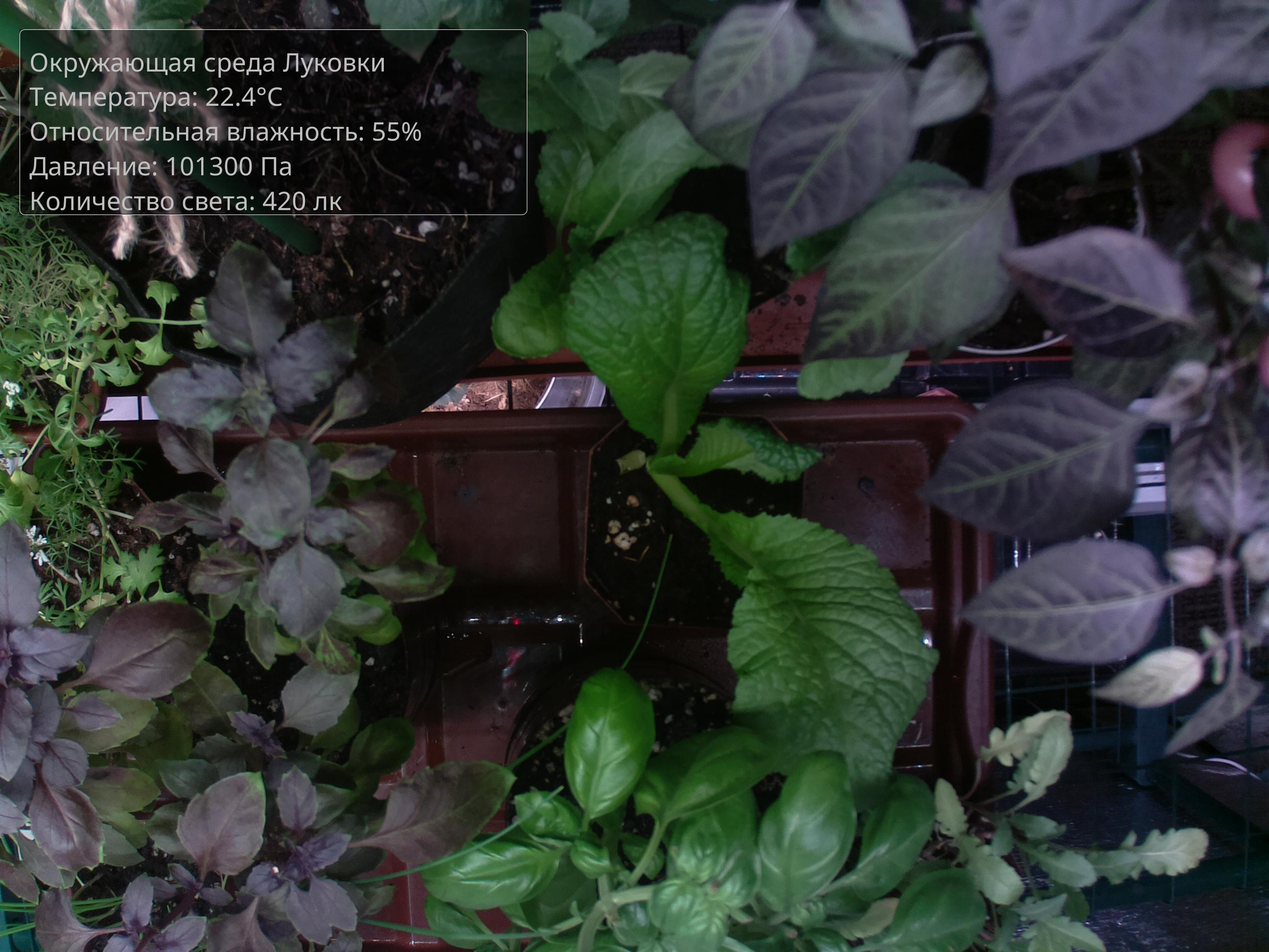
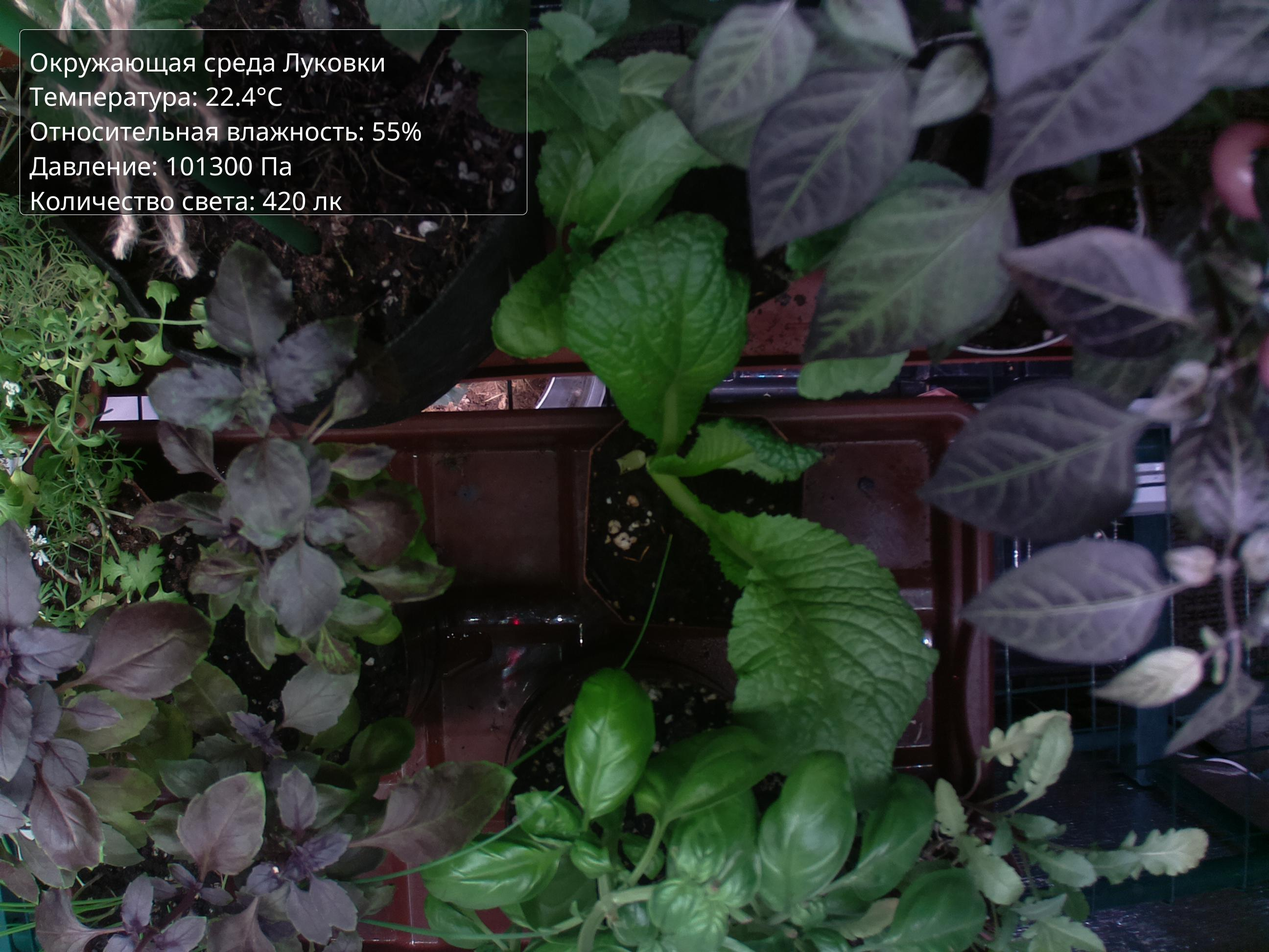
Sync changes

Changed region(s): [[0.0312, 0.0617, 0.3438, 0.216]]

diff --git a/src/test/java/dev/sergevas/iot/growlabv1/renderer/control/ImageOverlayServiceTest.java b/src/test/java/dev/sergevas/iot/growlabv1/renderer/control/ImageOverlayServiceTest.java
@@ -20,7 +20,7 @@ class ImageOverlayServiceTest {
         ImageOverlayService renderer =
                 new ImageOverlayService(
                         font,
-                        Color.LIGHT_GRAY
+                        Color.WHITE
                 );
 
         renderer.render(Objects.requireNonNull(getClass().getResourceAsStream("/image/response.jpg")), "response_mod.jpg",
